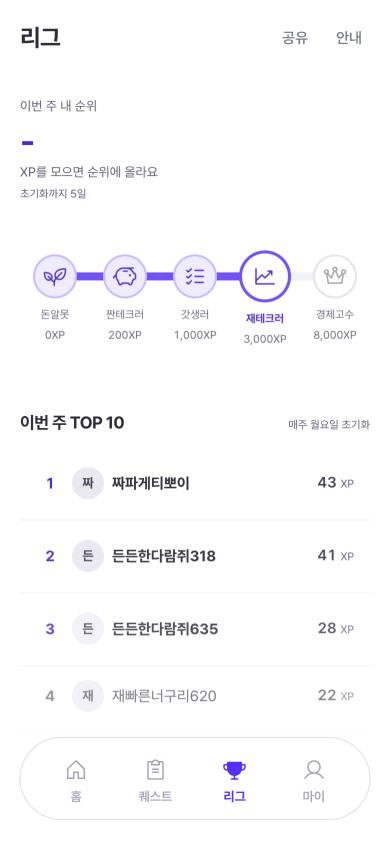
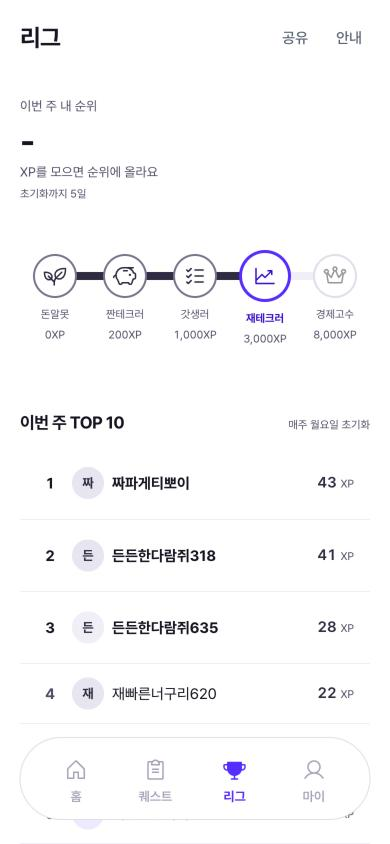
보라 사용처 축소(주버튼·현재 위치·링크), 숫자 검정·진행 진회색, 정답/오답 중립색+✓✕, Lv를 수달에서 분리, 배지 획득=수달색 채움·미획득=회색

diff --git a/src/index.css b/src/index.css
@@ -813,7 +813,7 @@ button.mission-reward-status {
 .league-ranking-row.is-own-separate { border-top: 2px dashed var(--color-surface); }
 .league-rank-badge { display: inline-flex; box-sizing: border-box; min-width: 28px; height: 28px; align-items: center; justify-content: center; padding: 0 var(--space-1); border-radius: var(--shape-sm); color: var(--color-ink-3); font-size: var(--font-size-body); font-weight: var(--font-weight-bold); line-height: 20px; font-variant-numeric: tabular-nums; }
 .league-rank-badge[data-podium] { position: relative; min-width: 28px; width: 28px; height: 28px; padding: 0; border: 0; background: transparent; }
-.league-rank-badge[data-podium] { color: var(--color-accent-foreground); font-weight: var(--font-weight-bold); }
+.league-rank-badge[data-podium] { color: var(--color-ink); font-weight: var(--font-weight-bold); }
 .league-rank-value { position: absolute; inset-inline: 0; top: 7px; text-align: center; color: var(--color-ink); font-size: var(--font-size-caption); line-height: 16px; }
 .league-rank-name { min-width: 0; overflow: hidden; color: var(--color-ink); font-size: var(--font-size-body); font-weight: var(--font-weight-regular); line-height: 20px; text-overflow: ellipsis; white-space: nowrap; }
 .league-ranking-row.is-me .league-rank-name { color: var(--color-brand-text); font-weight: var(--font-weight-bold); }
@@ -1007,7 +1007,7 @@ button.quiz-option:disabled { opacity: 1; cursor: default; }
 .quiz-answer-feedback { display: flex; flex-shrink: 0; flex-direction: column; gap: var(--space-3); padding: var(--space-5) var(--space-5) max(var(--space-5), env(safe-area-inset-bottom)); border-radius: var(--shape-card) var(--shape-card) 0 0; background: var(--color-card); box-shadow: 0 -4px 16px rgba(23, 29, 35, 0.06); }
 .quiz-answer-heading { display: flex; align-items: center; gap: var(--space-2); }
 .quiz-answer-heading > h2 { flex: 1; min-width: 0; color: var(--color-ink); font-size: var(--font-size-title-3); font-weight: var(--font-weight-bold); line-height: var(--line-height-body); word-break: keep-all; }
-.quiz-answer-mark { display: flex; width: 32px; height: 32px; border-radius: 50%; flex-shrink: 0; align-items: center; justify-content: center; background: var(--color-danger-soft); color: var(--color-danger-foreground); }
+.quiz-answer-mark { display: flex; width: 32px; height: 32px; border-radius: 50%; flex-shrink: 0; align-items: center; justify-content: center; background: var(--color-surface); color: var(--color-ink-3); }
 .quiz-answer-feedback[data-correct='true'] .quiz-answer-mark { background: var(--color-success-soft); color: var(--color-success-foreground); }
 .quiz-answer-reward { display: flex; flex-shrink: 0; align-items: center; gap: var(--space-2); color: var(--color-reward-foreground); font-size: var(--font-size-label); font-weight: var(--font-weight-bold); line-height: var(--line-height-body); }
 .quiz-answer-reward > span { color: var(--color-ink-3); font-size: var(--font-size-caption); }
@@ -1078,7 +1078,7 @@ button.course-home-topic:not(:last-child)::after { content: ''; position: absolu
 /* 홈 상단: 이번 주 연속 학습 카드 */
 .home-streak-card { flex-shrink: 0; margin: var(--space-1) var(--space-5) var(--space-3); padding: var(--space-4) var(--space-4) var(--space-5); border-radius: var(--shape-card); background: var(--color-card); box-shadow: var(--shadow-card); }
 .home-streak-title { display: flex; align-items: center; gap: var(--space-2); margin-bottom: var(--space-3); color: var(--color-ink); font-size: var(--font-size-body); font-weight: var(--font-weight-semibold); line-height: var(--line-height-body); word-break: keep-all; }
-.home-streak-title strong { color: var(--color-accent-foreground); }
+.home-streak-title strong { color: var(--color-ink); }
 .home-streak-card .week-strip { padding: 0; border: 0; }
 .home-streak-card .week-strip-heading { display: none; }
 .home-streak-card .week-strip-circle { max-width: 44px; background: var(--color-accent-soft); color: var(--color-accent-line); }
@@ -1098,7 +1098,8 @@ button.course-home-topic:not(:last-child)::after { content: ''; position: absolu
 .course-home-level-track > span { display: block; height: 100%; border-radius: inherit; background: var(--color-progress); }
 .course-home-hero .course-home-bubble { margin-bottom: 0; padding: var(--space-4); background: var(--color-card); box-shadow: none; }
 .course-home-hero .course-home-bubble::before { top: 50%; bottom: auto; margin-top: calc(var(--space-2) * -1); background: var(--color-card); }
-.course-home-tier-chip { position: relative; z-index: 1; max-width: 100%; overflow: hidden; text-overflow: ellipsis; padding: 2px var(--space-2); border-radius: var(--shape-full); background: var(--violet-700); color: var(--color-on-brand); font-size: var(--font-size-caption); font-weight: var(--font-weight-bold); line-height: var(--line-height-body); white-space: nowrap; }
+.course-home-tier-chip { margin: 0 0 var(--space-3); color: var(--color-ink-3); font-size: var(--font-size-label); line-height: var(--line-height-body); }
+.course-home-tier-chip strong { color: var(--color-ink); font-weight: var(--font-weight-semibold); }
 .course-home-bubble-topic { color: var(--color-ink-3); font-size: var(--font-size-caption); font-weight: var(--font-weight-semibold); }
 .course-home-hero button.course-home-primary { min-height: 48px; margin-top: 0; font-size: var(--font-size-body) !important; font-weight: var(--font-weight-bold); }
 
@@ -1128,7 +1129,7 @@ button.course-home-rail-card:active { background: var(--color-surface); }
 .course-home-section-heading { margin-top: var(--space-6); }
 /* 리그: 이번 주 내 순위 카드 */
 .league-my-rank { margin-bottom: var(--space-6); padding: var(--space-5); border-radius: var(--shape-card); background: var(--color-card); box-shadow: var(--shadow-card); }
-.league-my-rank-value { margin-top: var(--space-1); color: var(--color-accent-foreground); font-size: var(--font-size-title-2); font-weight: var(--font-weight-bold); font-variant-numeric: tabular-nums; }
+.league-my-rank-value { margin-top: var(--space-1); color: var(--color-ink); font-size: var(--font-size-title-2); font-weight: var(--font-weight-bold); font-variant-numeric: tabular-nums; }
 
 /* 리그: 등급 단계 로드맵 */
 .league-tier-road { position: relative; display: grid; grid-template-columns: repeat(5, minmax(0, 1fr)); margin: 0; padding: var(--space-5) var(--space-2) var(--space-4); border-radius: var(--shape-card); background: var(--color-card); box-shadow: var(--shadow-card); list-style: none; }
@@ -1137,8 +1138,8 @@ button.course-home-rail-card:active { background: var(--color-surface); }
 .league-tier-road::after { width: calc(80% * var(--road-progress)); background: var(--color-progress); }
 .league-tier-step { position: relative; z-index: 1; display: flex; min-width: 0; flex-direction: column; align-items: center; gap: var(--space-1); }
 .league-tier-node { display: flex; width: 44px; height: 44px; align-items: center; justify-content: center; border: 2px solid var(--color-line); border-radius: 50%; background: var(--color-card); }
-.league-tier-step[data-state='done'] .league-tier-node { border-color: var(--color-accent-line); background: var(--color-accent-soft); color: var(--color-accent-foreground); }
-.league-tier-step[data-state='current'] .league-tier-node { width: 52px; height: 52px; margin-top: calc(var(--space-1) * -1); border: 3px solid var(--color-progress); box-shadow: 0 0 0 4px var(--color-accent-soft); color: var(--color-accent-foreground); }
+.league-tier-step[data-state='done'] .league-tier-node { border-color: var(--color-line-strong); background: var(--color-card); color: var(--color-ink-2); }
+.league-tier-step[data-state='current'] .league-tier-node { width: 52px; height: 52px; margin-top: calc(var(--space-1) * -1); border: 3px solid var(--color-brand-action); box-shadow: 0 0 0 4px var(--color-accent-soft); color: var(--color-accent-foreground); }
 .league-tier-step[data-state='future'] .league-tier-node .stage-glyph { opacity: 0.45; filter: grayscale(0.6); }
 .league-tier-name { margin-top: var(--space-1); max-width: 100%; overflow: hidden; color: var(--color-ink-3); font-size: var(--font-size-caption); text-overflow: ellipsis; white-space: nowrap; }
 .league-tier-step[data-state='current'] .league-tier-name { color: var(--color-accent-foreground); font-weight: var(--font-weight-bold); }
@@ -1171,8 +1172,9 @@ button.course-home-rail-card:active { background: transparent; opacity: 0.7; }
 .lesson-intro-step { padding: var(--space-3) 0; border-radius: 0; background: transparent; box-shadow: none; border-bottom: 1px solid var(--color-line); }
 /* 선택 전 보기는 흰 면이라 회색 테두리로 경계를 보인다 */
 button.quiz-option.border-transparent { border-color: var(--color-line-strong) !important; }
-.badge-glyph { display: inline-flex; align-items: center; justify-content: center; border-radius: 50%; background: var(--color-accent-soft); color: var(--color-accent-foreground); }
-.badge-glyph.is-locked { border: 1px dashed var(--color-line-strong); background: transparent; color: var(--color-ink-3); }
+/* 획득 배지 = 수달 크림 원 + 갈색 채움 아이콘, 미획득 = 회색 원 + 흐린 선 아이콘 */
+.badge-glyph { display: inline-flex; align-items: center; justify-content: center; border-radius: 50%; border: 0; background: var(--color-badge-earned-soft); color: var(--color-badge-earned); }
+.badge-glyph.is-locked { border: 0; background: var(--color-surface); color: var(--color-ink-3); opacity: 0.6; }
 
 /* 국내 앱 레이아웃: 회색 바탕 + 흰 섹션 블록(모서리 없음, 12px 간격). 카드 수를 늘리지 않고 영역만 나눈다. */
 .home-streak-card { margin: 0 0 var(--section-gap); padding: var(--space-4) var(--space-5) var(--space-5); background: var(--color-card); border-bottom: 0; }

diff --git a/src/styles/tokens.test.ts b/src/styles/tokens.test.ts
@@ -122,7 +122,8 @@ describe('이해 확인의 캐릭터·중성 상태 표현', () => {
     expect(feedbackCss).not.toMatch(/--color-(answer|danger|success)-/);
     expect(feedbackCss).not.toContain('.lesson-feedback-character');
     expect(feedbackCss).toContain('.lesson-complete-score-track > span { background: var(--color-ink-3); }');
-    for (const [values, success, danger] of [[light, '#2a7155', '#b23a33']] as const) {
+    // 정답은 초록 대신 중립 잉크(✓/✕와 문구로 구분), 빨강은 오류에만 남긴다
+    for (const [values, success, danger] of [[light, '#1b1a2b', '#b23a33']] as const) {
       expect(resolve('--color-success-foreground', values)).toBe(success);
       expect(resolve('--color-danger-foreground', values)).toBe(danger);
     }
@@ -278,7 +279,7 @@ describe('다른 그림과 통일한 원형 파스텔 순위 표시', () => {
     it(`${name} 숫자는 테마와 관계없이 밝은 그림 안에서 충분히 구분된다`, () => {
       expect(contrast(resolve('--color-league-symbol-ink', values), '#fffbf3')).toBeGreaterThanOrEqual(4.5);
       expect(resolve('--color-league-symbol-ink', values)).toBe('#3d3b52');
-      expect(indexCss).toContain('.league-rank-badge[data-podium] { color: var(--color-accent-foreground); font-weight: var(--font-weight-bold); }');
+      expect(indexCss).toContain('.league-rank-badge[data-podium] { color: var(--color-ink); font-weight: var(--font-weight-bold); }');
       expect(indexCss).toContain('.league-rank-value { position: absolute; inset-inline: 0; top: 7px;');
       expect(indexCss).not.toContain(".league-rank-badge[data-podium='3'] .league-rank-value");
       expect(indexCss).not.toContain(".league-rank-badge[data-podium='1'] { background:");
@@ -346,7 +347,7 @@ describe('보상 장식과 실제 재화·배지 역할의 분리', () => {
       for (const role of ['--color-xp-soft', '--color-points-soft', '--color-info-soft']) {
         expect(values[role], role).toBe('var(--color-surface)');
       }
-      expect(resolve('--color-success-action', values)).toBe(resolve('--accent-green-ink', values));
+      expect(resolve('--color-success-action', values)).toBe(resolve('--color-ink', values));
       expect(resolve('--color-danger-action', values)).toBe(resolve('--accent-rose-ink', values));
     }
   });

diff --git a/src/styles/tokens.css b/src/styles/tokens.css
@@ -54,6 +54,9 @@
   --accent-brand-ink: var(--violet-700);
 
   /* 상태색 2개: 정답·완료와 오답·오류 전달에만 쓴다. */
+  /* 수달 캐릭터 색(캐릭터 바이블). 배지 일러스트 안에서만 쓴다 */
+  --otter-brown: #a9774f;
+  --otter-cream: #fbebd3;
   --accent-green: #3fa67e;
   --accent-green-ink: #2a7155;
   --accent-green-soft: #e8f3ee;
@@ -163,7 +166,10 @@
   --color-action-boundary: var(--color-line-strong);
 
   /* 진행은 비문자 대비 3:1, 보상 글자는 4.5:1 이상으로 구분한다. */
-  --color-progress: var(--violet-500);
+  /* 보라는 주버튼·현재 위치·링크에만. 진행 막대·완료 체크는 진회색 */
+  --color-progress: var(--color-ink-2);
+  --color-badge-earned: var(--otter-brown);
+  --color-badge-earned-soft: var(--otter-cream);
   --color-on-progress: var(--gray-0);
   --color-reward-foreground: var(--color-accent-foreground);
   --color-selection-soft: var(--color-accent-soft);
@@ -172,9 +178,10 @@
   --color-filter-tray: var(--gray-100);
 
   /* 의미색: 정답·완료·오류 등 상태 전달에만 사용한다. */
-  --color-success-foreground: var(--accent-green-ink);
-  --color-success-action: var(--accent-green-ink);
-  --color-success-soft: var(--accent-green-soft);
+  /* 정답은 초록·빨강 대신 중립색 + ✓/✕ 문구로 구분한다(국내 시세의 빨강=상승과 겹치지 않게). 빨강은 오류에만 */
+  --color-success-foreground: var(--color-ink);
+  --color-success-action: var(--color-ink);
+  --color-success-soft: var(--color-surface);
   --color-success-mark: var(--gray-0);
   --color-danger-foreground: var(--accent-rose-ink);
   --color-danger-action: var(--accent-rose-ink);

diff --git a/src/pages/ReviewScreen.tsx b/src/pages/ReviewScreen.tsx
@@ -227,16 +227,16 @@ const QuizPage = () => {
               autoComplete="off"
               className={`w-full px-4 py-4 rounded-button text-sm font-normal outline-none border transition-colors
                 ${status === 'correct' ? 'bg-[var(--color-card)] border-[var(--color-success-foreground)] text-[var(--color-ink)]' :
-                  status === 'wrong' ? 'bg-[var(--color-card)] border-[var(--color-danger-line)] text-[var(--color-ink)]' :
+                  status === 'wrong' ? 'bg-[var(--color-card)] border-dashed border-[var(--color-line-strong)] text-[var(--color-ink)]' :
                   'bg-[var(--color-card)] border-[var(--color-line)] text-[var(--color-ink)] focus:border-[var(--color-ink-3)]'}
               `}
               style={{ caretColor: 'var(--color-ink)' }}
             />
             {status === 'correct' && (
-              <p className="text-xs font-bold text-[var(--color-success-foreground)] mt-1! px-1">정답! 바로 맞혔어요</p>
+              <p className="text-xs font-bold text-[var(--color-success-foreground)] mt-1! px-1">✓ 정답! 바로 맞혔어요</p>
             )}
             {status === 'wrong' && (
-              <p className="text-xs font-bold text-[var(--color-danger-foreground)] mt-1! px-1">틀렸어요. 정답: {word.word}</p>
+              <p className="text-xs font-bold text-[var(--color-ink-2)] mt-1! px-1">✕ 틀렸어요. 정답: {word.word}</p>
             )}
           </div>
 

diff --git a/src/pages/QuizScreen.tsx b/src/pages/QuizScreen.tsx
@@ -323,7 +323,7 @@ const QuizScreen = () => {
             if (!showGrading && isSelected) optionStyle = 'bg-[var(--color-accent-soft)] border-[var(--color-progress)] text-[var(--color-ink)]';
             if (showGrading) {
               optionStyle = isCorrectOption ? 'bg-[var(--color-success-soft)] border-[var(--color-success-foreground)] text-[var(--color-ink)]'
-                : isSelected ? 'bg-[var(--color-card)] border-[var(--color-danger-line)] text-[var(--color-ink)]'
+                : isSelected ? 'bg-[var(--color-card)] border-[var(--color-line-strong)] border-dashed text-[var(--color-ink)]'
                 : 'bg-[var(--color-card)] border-transparent text-[var(--color-ink-3)]';
             }
             const tag = !showGrading ? (isSelected ? (status === 'idle' ? '선택' : '내 답') : null) : isCorrectOption ? '정답' : isSelected ? '내 답' : null;
@@ -333,7 +333,7 @@ const QuizScreen = () => {
               : isCorrectOption
                 ? 'text-[var(--color-success-foreground)]'
                 : isSelected
-                  ? 'text-[var(--color-danger-foreground)]'
+                  ? 'text-[var(--color-ink-3)]'
                   : 'border border-[var(--color-line)] bg-[var(--color-surface)] text-[var(--color-ink-4)]';
 
             return (

diff --git a/src/components/mypage/BadgeGlyph.tsx b/src/components/mypage/BadgeGlyph.tsx
@@ -1,7 +1,7 @@
 import { BookBookmark, BookOpen, Books, Coin, Coins, Diamond, Fire, Lightning, Medal, Plant, type Icon } from '@phosphor-icons/react';
 
 const STAT: Record<string, string> = { w: 'words', s: 'streak', x: 'xp' };
-// 배지는 옅은 보라 원 안의 보라 선형 아이콘이다. 미획득은 회색 원과 회색 아이콘이다.
+// 획득 배지는 수달 크림 원 안의 갈색 채움 아이콘, 미획득은 회색 원 안의 흐린 선 아이콘이다.
 const BADGE_ICON: Record<string, Icon> = {
   w1: Plant, w10: BookOpen, w50: BookBookmark, w100: Books,
   s3: Fire, s7: Lightning, s30: Medal,
@@ -15,7 +15,7 @@ export const BadgeGlyph = ({ id, size = 22, className = '', earned = true }: {
   return (
     <span aria-hidden="true" data-badge-id={id} data-earned={earned} data-badge-stat={STAT[id[0]]}
       className={`badge-glyph shrink-0 ${earned ? '' : 'is-locked'} ${className}`} style={{ width: size, height: size }}>
-      <Glyph weight="regular" size={size >= 80 ? 48 : 24} color="currentColor" focusable="false" />
+      <Glyph weight={earned ? 'fill' : 'regular'} size={size >= 80 ? 48 : 24} color="currentColor" focusable="false" />
     </span>
   );
 };

diff --git a/src/components/StatIcons.tsx b/src/components/StatIcons.tsx
@@ -4,7 +4,8 @@ import { Lightning } from './ui/OtterIcons';
 // 상단바·마이페이지 요약 전용 아이콘(연속 학습·XP·코인·배운 단어). 선형 단색이고 글자색을 따른다(포인트 컬러는 보라 하나).
 type Props = { size?: number; className?: string };
 // 숫자도 아이콘과 같은 색으로 칠할 수 있게 밖으로 꺼내 둔다
-export const STAT_COLOR = { streak: 'var(--color-accent-foreground)', xp: 'var(--color-accent-foreground)', points: 'var(--color-accent-foreground)', words: 'var(--color-accent-foreground)' } as const;
+// 숫자는 보라 대신 검정 볼드(보라는 주버튼·현재 위치·링크에만)
+export const STAT_COLOR = { streak: 'var(--color-ink)', xp: 'var(--color-ink)', points: 'var(--color-ink)', words: 'var(--color-ink)' } as const;
 
 const Line = ({ icon: Glyph, name, size = 16, className }: Props & { icon: Icon; name: string }) => (
   <Glyph weight="bold" size={size} color="currentColor" aria-hidden="true" focusable="false" data-icon={name} className={`shrink-0 ${className ?? ''}`} />

diff --git a/src/pages/CourseScreen.tsx b/src/pages/CourseScreen.tsx
@@ -348,11 +348,11 @@ const CourseScreen = () => {
         </section>
 
         <section aria-label="오늘 할 학습" className="course-home-hero">
-          {/* 왼쪽은 캐릭터, 오른쪽은 등급 진행과 말풍선을 쌓는다 */}
+          {/* 등급은 수달의 레벨로 읽히지 않게 캐릭터와 떨어진 텍스트 한 줄로 둔다 */}
+          <p className="course-home-tier-chip">내 등급 <strong>Lv.{stage.id} {stage.name}</strong></p>
           <div className="course-home-hero-body">
             <div className="course-home-character-wrap">
               <img className="course-home-character" src="/otter/v5/otter-explain.svg" data-otter="explain" alt="" aria-hidden="true" width={96} height={96} />
-              <span className="course-home-tier-chip">Lv.{stage.id} {stage.name}</span>
             </div>
             <div className="course-home-hero-side">
               <div className="course-home-bubble">

diff --git a/DESIGN.md b/DESIGN.md
@@ -56,6 +56,13 @@
 
 `--color-brand-text`, `--color-brand-decoration`, `--color-brand-soft` 같은 예전 이름은 위 역할을 가리키는 호환 별칭이다. 새 코드는 위 표의 이름을 쓴다.
 
+**색 사용 규칙(2026-11-04)**
+
+- 보라(`--color-brand-action`)는 주버튼, 현재 위치(오늘·현재 등급·내 행), 링크에만 쓴다.
+- 숫자(연속 학습일·살펴본 용어·XP·순위)는 검정 볼드, 진행 막대·완료 체크는 진회색(`--color-progress` = `--color-ink-2`).
+- 정답·오답은 초록·빨강 대신 중립색과 ✓/✕·문구로 구분한다. 국내 시세에서 빨강은 상승이라 오답 표시와 겹친다. 빨강은 입력·네트워크 오류에만 쓴다.
+- 획득 배지는 수달 색(크림 원 `--otter-cream` + 갈색 채움 아이콘 `--otter-brown`), 미획득은 회색 원 + 흐린 선 아이콘이다.
+
 ### 2-3. 다크 모드
 
 **쓰지 않는다.** 앱인토스 미니앱은 라이트 모드만 지원해(검수 체크리스트 "미니앱 테마는 라이트 모드로 구현돼 있어요") 테마 선택을 없애고 라이트로 고정했다(`main.tsx`). 다크 토큰·`.dark` 스타일·`-dark` 수달 파일은 2026-11-04에 지웠다. 다크 모드가 지원되면 git 이력에서 되살린다.
